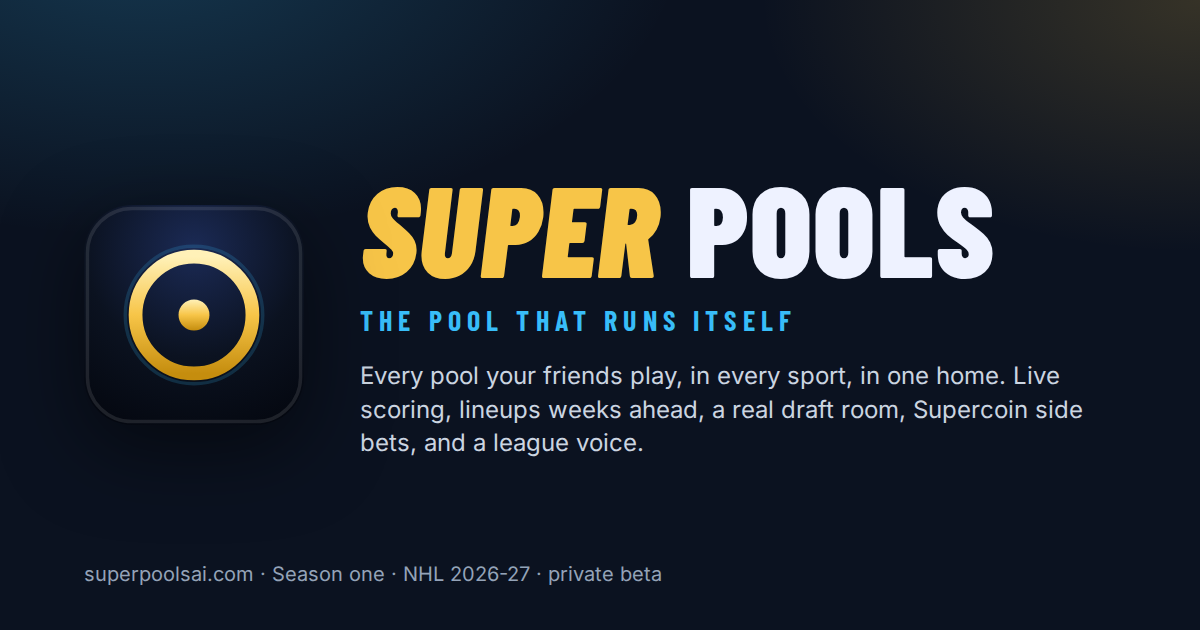
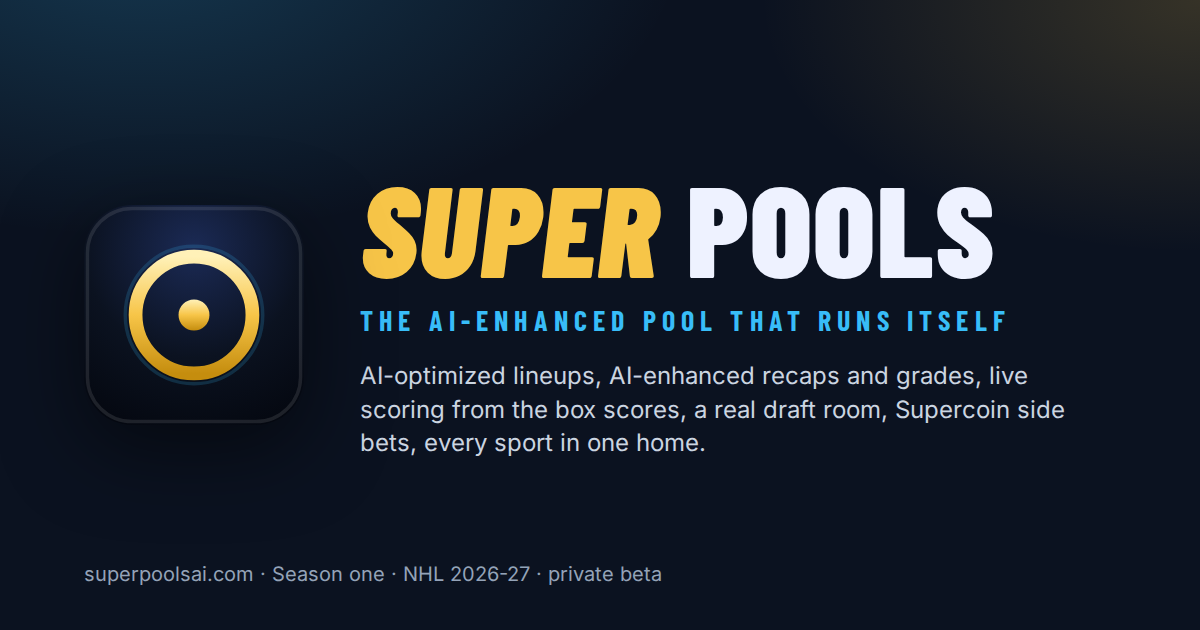
Say AI plainly and give the page real graphics
The messaging now says what the assistant does, in two words we will keep
using: AI-optimized (lineups, projections) and AI-enhanced (recaps,
grades, the voice), always grounded in the pool's own data and labelled.
The headline, the share card, the product tagline, the tiers and the
brand document follow.

The page gets drawn graphics instead of text alone: a phone mockup in the
hero with a live standings screen, the voice's bubble and a floating
AI-optimized lineup card; a faint faceoff-circle motif behind it; one-
stroke icons for the pillars, the features and the learning loop; a
glyph per sport in the roadmap grid; a gold Supercoin carrying the mark;
and a sample optimized lineup beside the voice's sample post. Everything
is inline SVG and CSS with fictional pools, so it stays crisp and private.

Claude-Session: https://claude.ai/code/session_01Hp9VkTQfXe9iCuWbtJF6dH

Changed region(s): [[0.2775, 0.573, 0.925, 0.6635], [0.3392, 0.4825, 0.8325, 0.5429], [0.3392, 0.6937, 0.5858, 0.7238]]

diff --git a/landing/index.html b/landing/index.html
@@ -3,15 +3,15 @@
 <head>
   <meta charset="utf-8" />
   <meta name="viewport" content="width=device-width, initial-scale=1" />
-  <title>Super Pools · The pool that runs itself</title>
-  <meta name="description" content="Super Pools is the home for every pool your friends play, in every sport, with a commissioner's assistant built in. Live scoring from the box scores, lineups weeks ahead, a real draft room, Supercoin side bets, and a league voice. Hockey first, built by a keeper league." />
+  <title>Super Pools · The AI-enhanced pool that runs itself</title>
+  <meta name="description" content="Super Pools is the AI-enhanced home for every pool your friends play, in every sport. AI-optimized lineups, live scoring from the box scores, a real draft room, Supercoin side bets, and a league voice that posts the recap. Hockey first, built by a keeper league." />
   <link rel="canonical" href="https://superpoolsai.com/" />
   <link rel="icon" href="./icon.svg" type="image/svg+xml" />
   <meta name="theme-color" content="#0b1220" />
   <meta property="og:type" content="website" />
   <meta property="og:url" content="https://superpoolsai.com/" />
-  <meta property="og:title" content="Super Pools · The pool that runs itself" />
-  <meta property="og:description" content="Every pool your friends play, in every sport, in one home. Live scoring, lineups weeks ahead, a real draft room, Supercoin side bets, and a league voice. Hockey first, built by a keeper league." />
+  <meta property="og:title" content="Super Pools · The AI-enhanced pool that runs itself" />
+  <meta property="og:description" content="AI-optimized lineups, AI-enhanced recaps and grades, live scoring, a real draft room, Supercoin side bets, every sport in one home. Hockey first, built by a keeper league." />
   <meta property="og:image" content="https://superpoolsai.com/og.png" />
   <meta name="twitter:card" content="summary_large_image" />
   <style>
@@ -50,6 +50,61 @@
     @media (min-width: 720px) { .nav-cta { display: inline-block; } }
     .proof { margin-top: 18px; font-size: 13px; color: var(--mute); max-width: 560px; }
 
+    /* icons: one stroke, one colour, drawn inline so they stay crisp */
+    .ico { width: 22px; height: 22px; fill: none; stroke: currentColor; stroke-width: 1.8; stroke-linecap: round; stroke-linejoin: round; color: var(--gold); flex: none; }
+    .ico.ice { color: var(--ice); }
+    .card .ico { width: 26px; height: 26px; margin-bottom: 8px; }
+
+    /* hero: words left, the product right */
+    .hero { position: relative; display: grid; gap: 28px; align-items: center; margin-top: 44px; }
+    @media (min-width: 900px) { .hero { grid-template-columns: 1.05fr .95fr; margin-top: 56px; } }
+    .hero h1 { margin-top: 10px; font-size: clamp(44px, 7.2vw, 80px); max-width: 16ch; }
+    .nb { white-space: nowrap; }
+    .rink { position: absolute; right: -120px; top: -60px; width: 520px; height: 520px; opacity: .10; pointer-events: none; display: none; }
+    @media (min-width: 900px) { .rink { display: block; } }
+    .mock { position: relative; width: 300px; margin: 8px auto 0; padding-right: 30px; }
+    .phone { width: 270px; height: 540px; border-radius: 38px; background: #05080f; border: 1px solid rgba(255,255,255,.14); box-shadow: 0 40px 80px -30px rgba(0,0,0,.9), 0 0 0 6px #0d1424 inset; padding: 14px; position: relative; }
+    .phone::before { content: ''; position: absolute; top: 14px; left: 50%; width: 90px; height: 22px; margin-left: -45px; border-radius: 0 0 14px 14px; background: #05080f; z-index: 2; }
+    .screen { background: var(--night); border-radius: 28px; height: 100%; padding: 36px 14px 14px; overflow: hidden; font-size: 12px; display: flex; flex-direction: column; gap: 10px; }
+    .bar { display: flex; justify-content: space-between; align-items: center; font-family: 'Barlow Condensed', sans-serif; font-weight: 900; font-size: 17px; letter-spacing: .02em; }
+    .bar .live { font-size: 10px; letter-spacing: .16em; color: var(--ice); font-weight: 700; }
+    .rows { background: var(--boards); border: 1px solid var(--line); border-radius: 14px; padding: 4px 10px; }
+    .row { display: grid; grid-template-columns: 18px 1fr auto auto; gap: 8px; align-items: center; padding: 8px 0; border-bottom: 1px solid var(--line); }
+    .row:last-child { border-bottom: 0; }
+    .row .rk { color: var(--mute); font-family: 'Barlow Condensed', sans-serif; font-weight: 900; font-size: 14px; }
+    .row .tm { font-weight: 600; white-space: nowrap; overflow: hidden; text-overflow: ellipsis; }
+    .row .pts { font-variant-numeric: tabular-nums; }
+    .row .d { font-size: 11px; font-variant-numeric: tabular-nums; min-width: 40px; text-align: right; }
+    .row .up { color: var(--gold); } .row .dn { color: var(--mute); }
+    .row.lead .tm, .row.lead .pts { color: var(--gold); }
+    .bubble { display: flex; gap: 8px; align-items: flex-start; background: var(--boards); border: 1px solid var(--line); border-radius: 14px; padding: 10px; font-size: 11.5px; line-height: 1.4; margin-top: auto; }
+    .bubble .avatar { width: 22px; height: 22px; font-size: 12px; }
+    .bubble b { color: var(--ink); }
+    .float { position: absolute; right: 0; bottom: 128px; width: 200px; background: var(--boards); border: 1px solid rgba(247,197,72,.45); border-radius: 16px; padding: 12px 14px; box-shadow: 0 24px 50px -20px rgba(0,0,0,.9); }
+    .chip { display: inline-flex; align-items: center; gap: 6px; font-size: 11px; letter-spacing: .08em; text-transform: uppercase; color: var(--gold); font-weight: 700; }
+    .chip .ico { width: 14px; height: 14px; }
+    .float .big { font-family: 'Barlow Condensed', sans-serif; font-weight: 900; font-size: 34px; line-height: 1; margin: 6px 0 4px; }
+    .float .big small { font-size: 13px; font-weight: 700; color: var(--mute); letter-spacing: .06em; margin-left: 4px; }
+    .float .small { font-size: 12px; color: var(--mute); line-height: 1.4; }
+
+    /* the coin */
+    .coinart { width: 150px; height: 150px; margin: 0 auto 14px; filter: drop-shadow(0 20px 30px rgba(247,197,72,.25)); }
+
+    /* AI section */
+    .ai { display: grid; gap: 14px; grid-template-columns: 1fr; }
+    @media (min-width: 900px) { .ai { grid-template-columns: 1fr 1fr; } }
+    .lineup { background: var(--boards); border: 1px solid var(--line); border-radius: 18px; padding: 16px 18px; font-size: 13px; }
+    .lineup .hd { display: flex; justify-content: space-between; align-items: center; margin-bottom: 8px; }
+    .lineup .hd b { font-family: 'Barlow Condensed', sans-serif; font-weight: 900; font-size: 20px; letter-spacing: .02em; }
+    .lineup .l { display: grid; grid-template-columns: 34px 1fr auto; gap: 10px; align-items: center; padding: 7px 0; border-bottom: 1px solid var(--line); }
+    .lineup .l:last-of-type { border-bottom: 0; }
+    .lineup .slot { font-family: 'Barlow Condensed', sans-serif; font-weight: 700; color: var(--mute); letter-spacing: .06em; }
+    .lineup .proj { font-variant-numeric: tabular-nums; color: var(--mute); }
+    .lineup .l.moved .slot, .lineup .l.moved .proj { color: var(--gold); }
+    .lineup .note { margin-top: 10px; font-size: 12px; color: var(--mute); }
+    .tier.hot { position: relative; }
+    .tier.hot::before { content: 'Most leagues'; position: absolute; top: -11px; right: 16px; background: linear-gradient(180deg, #fff3c4, var(--gold)); color: #1a1405; font-size: 10px; letter-spacing: .14em; text-transform: uppercase; font-weight: 700; padding: 4px 9px; border-radius: 999px; }
+
     section { margin-top: 64px; }
     h2 { font-size: clamp(30px, 4.6vw, 44px); margin: 8px 0 18px; }
     .grid { display: grid; gap: 14px; grid-template-columns: repeat(auto-fit, minmax(280px, 1fr)); }
@@ -86,6 +141,7 @@
     .sports { display: grid; gap: 10px; grid-template-columns: repeat(2, 1fr); }
     @media (min-width: 720px) { .sports { grid-template-columns: repeat(4, 1fr); } }
     .sport { background: var(--boards); border: 1px solid var(--line); border-radius: 14px; padding: 14px; }
+    .sport { display: flex; gap: 10px; align-items: flex-start; }
     .sport b { display: block; font-family: 'Barlow Condensed', sans-serif; font-weight: 900; font-size: 20px; letter-spacing: .02em; }
     .sport span { display: inline-block; margin-top: 6px; font-size: 11px; letter-spacing: .14em; text-transform: uppercase; color: var(--mute); }
     .sport.now { border-color: rgba(247,197,72,.45); }
@@ -116,6 +172,28 @@
   </style>
 </head>
 <body>
+  <svg width="0" height="0" style="position:absolute" aria-hidden="true">
+    <symbol id="i-spark" viewBox="0 0 24 24"><path d="M12 2l2.3 6.4L21 10.7l-6.7 2.3L12 19.4l-2.3-6.4L3 10.7l6.7-2.3z"/></symbol>
+    <symbol id="i-puck" viewBox="0 0 24 24"><ellipse cx="12" cy="8" rx="9" ry="3.5"/><path d="M3 8v6c0 1.9 4 3.5 9 3.5s9-1.6 9-3.5V8"/></symbol>
+    <symbol id="i-clock" viewBox="0 0 24 24"><circle cx="12" cy="13" r="8"/><path d="M12 9v4l3 2M9 2h6"/></symbol>
+    <symbol id="i-mic" viewBox="0 0 24 24"><rect x="9" y="3" width="6" height="11" rx="3"/><path d="M5 11a7 7 0 0 0 14 0M12 18v3M8 21h8"/></symbol>
+    <symbol id="i-dice" viewBox="0 0 24 24"><rect x="3" y="3" width="18" height="18" rx="4"/><circle cx="8" cy="8" r="1.3" fill="currentColor" stroke="none"/><circle cx="16" cy="8" r="1.3" fill="currentColor" stroke="none"/><circle cx="12" cy="12" r="1.3" fill="currentColor" stroke="none"/><circle cx="8" cy="16" r="1.3" fill="currentColor" stroke="none"/><circle cx="16" cy="16" r="1.3" fill="currentColor" stroke="none"/></symbol>
+    <symbol id="i-chart" viewBox="0 0 24 24"><path d="M3 20h18M5 16l4-5 4 3 6-8M16 6h3v3"/></symbol>
+    <symbol id="i-chat" viewBox="0 0 24 24"><path d="M4 5h16v10H9l-5 4z"/><path d="M8 10h8"/></symbol>
+    <symbol id="i-cal" viewBox="0 0 24 24"><rect x="3" y="5" width="18" height="16" rx="3"/><path d="M3 10h18M8 3v4M16 3v4"/></symbol>
+    <symbol id="i-board" viewBox="0 0 24 24"><rect x="3" y="4" width="18" height="12" rx="2"/><path d="M8 20h8M12 16v4M7 8h4M7 12h7"/></symbol>
+    <symbol id="i-shield" viewBox="0 0 24 24"><path d="M12 3l8 3v6c0 4.5-3.5 7.8-8 9-4.5-1.2-8-4.5-8-9V6z"/><path d="M9 12l2 2 4-4"/></symbol>
+    <symbol id="i-people" viewBox="0 0 24 24"><circle cx="9" cy="8" r="3.5"/><path d="M2.5 20a6.5 6.5 0 0 1 13 0M15 5a3.5 3.5 0 0 1 0 7M17 14a6.5 6.5 0 0 1 4.5 6"/></symbol>
+    <symbol id="i-vote" viewBox="0 0 24 24"><path d="M5 12l4 4L19 6M4 20h16"/></symbol>
+    <symbol id="s-hockey" viewBox="0 0 24 24"><path d="M5 3l8 12 3 1.5a1.8 1.8 0 0 1-1.6 2.5H9"/><ellipse cx="17.5" cy="18.5" rx="3" ry="1.4"/></symbol>
+    <symbol id="s-soccer" viewBox="0 0 24 24"><circle cx="12" cy="12" r="9"/><path d="M12 7.5l4 2.9-1.5 4.7h-5L8 10.4z"/><path d="M12 3v4.5M4 10.4l4 0M20 10.4l-4 0M6.5 18.6l3-3.5M17.5 18.6l-3-3.5"/></symbol>
+    <symbol id="s-basket" viewBox="0 0 24 24"><circle cx="12" cy="12" r="9"/><path d="M3 12h18M12 3v18M5.6 5.6c3 3 3 9.8 0 12.8M18.4 5.6c-3 3-3 9.8 0 12.8"/></symbol>
+    <symbol id="s-cricket" viewBox="0 0 24 24"><path d="M4 20l8-8M12 12l6.5-7.5L20 6l-7.5 6.5"/><circle cx="18" cy="18" r="2.5"/></symbol>
+    <symbol id="s-baseball" viewBox="0 0 24 24"><circle cx="12" cy="12" r="9"/><path d="M6 5c2 2.5 2 11.5 0 14M18 5c-2 2.5-2 11.5 0 14"/></symbol>
+    <symbol id="s-football" viewBox="0 0 24 24"><ellipse cx="12" cy="12" rx="10" ry="6" transform="rotate(-35 12 12)"/><path d="M9 15l6-6M10 11l1 1M12 9.5l1 1M13.5 13l1 1"/></symbol>
+    <symbol id="s-golf" viewBox="0 0 24 24"><path d="M8 21V4l9 3-9 3M4 21h10"/></symbol>
+    <symbol id="s-multi" viewBox="0 0 24 24"><circle cx="9" cy="10" r="5"/><circle cx="15" cy="10" r="5"/><circle cx="12" cy="15" r="5"/></symbol>
+  </svg>
   <main>
     <header>
       <a class="wordmark" href="https://superpoolsai.com/" aria-label="Super Pools">
@@ -128,21 +206,48 @@
       </div>
     </header>
 
-    <h1 class="display">The pool that <em>runs itself</em>.</h1>
-    <p class="lede">One home for every pool your friends play. Super Pools scores the league from the box scores every night, settles the side bets in Supercoins, sets the lineups your GMs planned weeks ago, keeps every season on the record, and gives the league a voice that posts the recap before you have finished your coffee. You run the league. It does the bookkeeping.</p>
-    <div class="cta">
-      <a class="btn btn-gold" href="#waitlist">Get on the list</a>
-      <a class="btn btn-ghost" href="#sports">Every sport, one home</a>
+    <div class="hero">
+      <svg class="rink" viewBox="0 0 520 520" aria-hidden="true"><g fill="none" stroke="#38bdf8" stroke-width="3"><circle cx="260" cy="260" r="230"/><circle cx="260" cy="260" r="12" fill="#38bdf8" stroke="none"/><path d="M200 30v18M320 30v18M200 472v18M320 472v18"/></g><path d="M0 260h520" stroke="#ef2a4f" stroke-width="3" stroke-opacity=".8"/></svg>
+      <div>
+        <div class="eyebrow">AI-optimized · AI-enhanced · built by a league</div>
+        <h1 class="display">The <span class="nb">AI-enhanced</span> pool that <em>runs itself</em>.</h1>
+        <p class="lede">One home for every pool your friends play. Super Pools scores the league from the box scores every night, optimizes the lineups your GMs leave to it, settles the side bets in Supercoins, keeps every season on the record, and gives the league a voice that posts the recap before you have finished your coffee. You run the league. It does the bookkeeping.</p>
+        <div class="cta">
+          <a class="btn btn-gold" href="#waitlist">Get on the list</a>
+          <a class="btn btn-ghost" href="#ai">See the assistant</a>
+        </div>
+        <p class="proof">Hockey first. Built by a keeper league that has drafted every fall since 2013; its 2026-27 season has run on Super Pools every night since the keeper deadline. Free to start, no ads, never real money.</p>
+      </div>
+      <div class="mock" aria-hidden="true">
+        <div class="phone">
+          <div class="screen">
+            <div class="bar"><span>NORTH POOL</span><span class="live">LIVE · 3 GAMES</span></div>
+            <div class="rows">
+              <div class="row lead"><span class="rk">1</span><span class="tm">Stars</span><span class="pts">1,284.5</span><span class="d up">+12.0</span></div>
+              <div class="row"><span class="rk">2</span><span class="tm">Bruisers</span><span class="pts">1,279.0</span><span class="d up">+7.5</span></div>
+              <div class="row"><span class="rk">3</span><span class="tm">Rink Rats</span><span class="pts">1,251.5</span><span class="d dn">+3.0</span></div>
+              <div class="row"><span class="rk">4</span><span class="tm">Habs Nots</span><span class="pts">1,236.0</span><span class="d up">+9.5</span></div>
+              <div class="row"><span class="rk">5</span><span class="tm">Prairie</span><span class="pts">1,198.5</span><span class="d dn">+1.5</span></div>
+              <div class="row"><span class="rk">6</span><span class="tm">Zambonis</span><span class="pts">1,190.0</span><span class="d dn">0.0</span></div>
+            </div>
+            <div class="bubble"><span class="avatar">G</span><div><b>Garry</b> · 10:48 pm<br>Stars take first by a goal. Bruisers left 9.5 on the bench. Recap at the horn.</div></div>
+          </div>
+        </div>
+        <div class="float">
+          <div class="chip"><svg class="ico"><use href="#i-spark"/></svg> AI-optimized lineup</div>
+          <div class="big">+6.4<small>PROJ</small></div>
+          <div class="small">Oettinger confirmed in net, moved to G1. Two bench points saved.</div>
+        </div>
+      </div>
     </div>
-    <p class="proof">Hockey first. Built by a keeper league that has drafted every fall since 2013; its 2026-27 season has run on Super Pools every night since the keeper deadline. Free to start, no ads, never real money.</p>
 
     <section class="pillars">
       <div class="eyebrow">Three things</div>
       <h2 class="display">What you get, and <em>what you stop doing</em></h2>
       <div class="grid">
-        <div class="card"><div class="n">01</div><h3>It runs itself</h3><p>Points from the box scores as the games happen. Every player locks at his own puck drop. Corrections flow in for a month. Bets, props, pools and the coin book settle themselves. Nobody keeps score by hand.</p></div>
-        <div class="card"><div class="n">02</div><h3>It talks back</h3><p>A league voice, named by your league, posts the daily recap, power rankings, trade grades and keeper reports, answers "who should I start?" in the chat, and talks trash on request.</p></div>
-        <div class="card"><div class="n">03</div><h3>Built by a league, with its leagues</h3><p>Thirteen seasons of keeper-league rules are baked in: keepers, a draft room with a clock and a TV board, trade review windows, IR rules, acquisition limits. Every pool can suggest and vote on what gets built next, and sees what shipped.</p></div>
+        <div class="card"><svg class="ico"><use href="#i-puck"/></svg><div class="n">01</div><h3>It runs itself</h3><p>Points from the box scores as the games happen. Every player locks at his own puck drop. Corrections flow in for a month. Bets, props, pools and the coin book settle themselves. Nobody keeps score by hand.</p></div>
+        <div class="card"><svg class="ico"><use href="#i-mic"/></svg><div class="n">02</div><h3>It talks back</h3><p>A league voice, named by your league, posts the daily recap, power rankings, trade grades and keeper reports, answers "who should I start?" in the chat, and talks trash on request.</p></div>
+        <div class="card"><svg class="ico"><use href="#i-people"/></svg><div class="n">03</div><h3>Built by a league, with its leagues</h3><p>Thirteen seasons of keeper-league rules are baked in: keepers, a draft room with a clock and a TV board, trade review windows, IR rules, acquisition limits. Every pool can suggest and vote on what gets built next, and sees what shipped.</p></div>
       </div>
     </section>
 
@@ -151,14 +256,14 @@
       <h2 class="display">The same friends, <em>every season of the year</em></h2>
       <p class="mute" style="margin:0 0 16px;max-width:640px">Hockey tonight. The rest arrive one at a time, each on licensed data, each with the same engine, the same chat, the same history and the same Supercoins. One login for the group, one crown for the year.</p>
       <div class="sports">
-        <div class="sport now"><b>Hockey</b><span>Now · NHL 2026-27</span></div>
-        <div class="sport"><b>Soccer</b><span>Next season</span></div>
-        <div class="sport"><b>Basketball</b><span>Next season</span></div>
-        <div class="sport"><b>Cricket</b><span>After · free to play</span></div>
-        <div class="sport"><b>Baseball</b><span>After</span></div>
-        <div class="sport"><b>Football</b><span>After</span></div>
-        <div class="sport"><b>Golf and F1</b><span>Pools</span></div>
-        <div class="sport"><b>Multi-sport pool</b><span>Draft across sports</span></div>
+        <div class="sport now"><svg class="ico"><use href="#s-hockey"/></svg><div><b>Hockey</b><span>Now · NHL 2026-27</span></div></div>
+        <div class="sport"><svg class="ico ice"><use href="#s-soccer"/></svg><div><b>Soccer</b><span>Next season</span></div></div>
+        <div class="sport"><svg class="ico ice"><use href="#s-basket"/></svg><div><b>Basketball</b><span>Next season</span></div></div>
+        <div class="sport"><svg class="ico ice"><use href="#s-cricket"/></svg><div><b>Cricket</b><span>After · free to play</span></div></div>
+        <div class="sport"><svg class="ico ice"><use href="#s-baseball"/></svg><div><b>Baseball</b><span>After</span></div></div>
+        <div class="sport"><svg class="ico ice"><use href="#s-football"/></svg><div><b>Football</b><span>After</span></div></div>
+        <div class="sport"><svg class="ico ice"><use href="#s-golf"/></svg><div><b>Golf and F1</b><span>Pools</span></div></div>
+        <div class="sport"><svg class="ico ice"><use href="#s-multi"/></svg><div><b>Multi-sport pool</b><span>Draft across sports</span></div></div>
       </div>
       <p class="mute" style="margin:16px 0 0;max-width:640px">The multi-sport pool is one roster across sports: four skaters, three strikers, two point guards, a bowler. Every sport's points on one scale, every player locked at his own game, and the pool wraps up when the season you choose ends.</p>
     </section>
@@ -172,12 +277,15 @@
           <p class="mute" style="margin:0 0 12px">Supercoins cannot be bought, sold or cashed out, which keeps them fun and keeps us out of the betting business. Cash dues stay what they have always been in a pool among friends: bookkeeping, with the balances on the record. No payments are handled.</p>
           <p class="mute" style="margin:0">Every coin that moves is a line in the ledger, visible to the pool, so nobody ever wonders where the money went.</p>
         </div>
-        <div class="ledger" aria-label="A sample Supercoin ledger">
+        <div>
+          <svg class="coinart" viewBox="0 0 120 120" aria-hidden="true"><defs><linearGradient id="cg" x1="0" y1="0" x2="0" y2="1"><stop offset="0" stop-color="#fff1b8"/><stop offset=".5" stop-color="#f7c548"/><stop offset="1" stop-color="#b8800a"/></linearGradient><radialGradient id="cf" cx="40%" cy="30%" r="80%"><stop offset="0" stop-color="#2a3a6a"/><stop offset="1" stop-color="#0b1220"/></radialGradient></defs><circle cx="60" cy="60" r="56" fill="url(#cg)"/><circle cx="60" cy="60" r="47" fill="url(#cf)"/><circle cx="60" cy="60" r="40" fill="none" stroke="#38bdf8" stroke-opacity=".25"/><circle cx="60" cy="60" r="26" fill="none" stroke="url(#cg)" stroke-width="6"/><circle cx="60" cy="60" r="7" fill="url(#cg)"/><g stroke="url(#cg)" stroke-width="4" stroke-linecap="round"><path d="M49 22v7M71 22v7M49 91v7M71 91v7"/></g></svg>
+          <div class="ledger" aria-label="A sample Supercoin ledger">
           <div><span>Season allowance · North Pool</span><span class="plus">+1,000</span></div>
           <div><span>Head-to-head vs Bruisers · Tuesday</span><span class="plus">+40</span></div>
           <div><span>Prop · MacKinnon 2+ points · settled</span><span class="minus">-25</span></div>
           <div><span>Prediction market · Cup winner · stake</span><span class="minus">-100</span></div>
           <div><span>Deadline-day top-up</span><span class="plus">+250</span></div>
+          </div>
         </div>
       </div>
     </section>
@@ -194,13 +302,26 @@
       </div>
     </section>
 
-    <section>
-      <div class="eyebrow">The league voice</div>
-      <h2 class="display">Every league gets <em>a voice</em></h2>
+    <section id="ai">
+      <div class="eyebrow">AI-optimized · AI-enhanced</div>
+      <h2 class="display">An assistant that knows <em>your league</em></h2>
+      <p class="mute" style="margin:0 0 16px;max-width:640px">Everything the assistant says is built from your pool's own box scores and record, and it is always labelled as the voice. It optimizes lineups, grades trades and drafts, writes the recap, runs the projections and answers questions in the chat. It never invents a stat and it never runs your league. You do.</p>
+      <div class="ai">
       <div class="voice">
         <div class="who"><span class="avatar">G</span><span><b>Garry</b> · league voice · Tuesday recap</span></div>
         <p>Three games, one lesson: the North Stars benched a 4-point night and still took first by a goal. The Bruisers started a scratched goalie and would like to speak to the manager. Keeper report posts Sunday. Trade deadline is in 19 days, and yes, I am counting.</p>
         <div class="tag">A sample post. Your league names its own voice and decides how often it talks.</div>
+      </div>
+      <div class="lineup" aria-label="A sample AI-optimized lineup">
+        <div class="hd"><b>TONIGHT'S LINEUP</b><span class="chip"><svg class="ico"><use href="#i-spark"/></svg> Optimized</span></div>
+        <div class="l"><span class="slot">C</span><span>Bedard · CHI vs STL</span><span class="proj">4.1</span></div>
+        <div class="l"><span class="slot">LW</span><span>Hughes · NJD vs PHI</span><span class="proj">3.8</span></div>
+        <div class="l moved"><span class="slot">RW</span><span>Marner · in for Tkachuk (out)</span><span class="proj">3.4</span></div>
+        <div class="l"><span class="slot">D</span><span>Makar · COL at DAL</span><span class="proj">3.9</span></div>
+        <div class="l moved"><span class="slot">G1</span><span>Oettinger · confirmed starter</span><span class="proj">5.2</span></div>
+        <div class="l"><span class="slot">BN</span><span>Tkachuk · day to day</span><span class="proj">0.0</span></div>
+        <div class="note">Two moves before puck drop: a scratched winger swapped out, a confirmed goalie swapped in. Every move is logged, every lock is at the player's own game time.</div>
+      </div>
       </div>
     </section>
 
@@ -208,12 +329,12 @@
       <div class="eyebrow">Everything in one place</div>
       <h2 class="display">The whole life of the league, <em>on a phone</em></h2>
       <div class="grid">
-        <div class="card"><h3>Live scoring, done right</h3><p>Points from the NHL box scores as the games happen. Every player locks at his own puck drop. Corrections flow in for a month.</p></div>
-        <div class="card"><h3>Lineups weeks ahead</h3><p>Set who starts for any day up to sixty days out, or let the auto-pilot do it. See exactly how every played day went.</p></div>
-        <div class="card"><h3>A real draft room</h3><p>Pick clock, live board, queues, a TV board for the big screen, mock drafts, and a graded report card after.</p></div>
-        <div class="card"><h3>Side bets and a book</h3><p>Head-to-heads, player props, pools and a coin sportsbook on real games, all settled from the box scores with live odds.</p></div>
-        <div class="card"><h3>Projections and forecasts</h3><p>Rest-of-season projections, thousands of simulated seasons, playoff odds, trade and free-agent finders.</p></div>
-        <div class="card"><h3>Chat, polls and history</h3><p>The league's living room: chat with reactions and polls, every transaction on the record, and a voice that remembers who said what.</p></div>
+        <div class="card"><svg class="ico"><use href="#i-puck"/></svg><h3>Live scoring, done right</h3><p>Points from the NHL box scores as the games happen. Every player locks at his own puck drop. Corrections flow in for a month.</p></div>
+        <div class="card"><svg class="ico"><use href="#i-cal"/></svg><h3>Lineups weeks ahead</h3><p>Set who starts for any day up to sixty days out, or let the auto-pilot do it. See exactly how every played day went.</p></div>
+        <div class="card"><svg class="ico"><use href="#i-board"/></svg><h3>A real draft room</h3><p>Pick clock, live board, queues, a TV board for the big screen, mock drafts, and a graded report card after.</p></div>
+        <div class="card"><svg class="ico"><use href="#i-dice"/></svg><h3>Side bets and a book</h3><p>Head-to-heads, player props, pools and a coin sportsbook on real games, all settled from the box scores with live odds.</p></div>
+        <div class="card"><svg class="ico"><use href="#i-chart"/></svg><h3>Projections and forecasts</h3><p>Rest-of-season projections, thousands of simulated seasons, playoff odds, trade and free-agent finders.</p></div>
+        <div class="card"><svg class="ico"><use href="#i-chat"/></svg><h3>Chat, polls and history</h3><p>The league's living room: chat with reactions and polls, every transaction on the record, and a voice that remembers who said what.</p></div>
       </div>
     </section>
 
@@ -223,8 +344,8 @@
       <p class="mute" style="margin:0 0 16px;max-width:640px">A free pool is a real pool. The paid tiers add what makes a league serious, and the price follows the features. No ads on any tier. Prices per pool per season, announced before leagues open.</p>
       <div class="tiers">
         <div class="tier"><h3>Free</h3><div class="for">For a group trying a pool</div><ul><li>One sport, points scoring from presets</li><li>Snake draft with a clock</li><li>Daily lineups, standings, history</li><li>Chat and polls, up to 12 teams</li><li>No assistant</li></ul><div class="price">Free</div></div>
-        <div class="tier"><h3>Plus</h3><div class="for">For an established league</div><ul><li>Custom scoring: points, categories, roto</li><li>Keepers and imports with history</li><li>Dues tracker, co-commissioners</li><li>Constitution and an audit trail</li><li>A weekly recap from the voice</li></ul><div class="price">Per pool, per season</div></div>
-        <div class="tier hot"><h3>Premium</h3><div class="for">For the fourteen-year league</div><ul><li>The full voice: daily recaps, rankings, grades, answers</li><li>Contracts, caps, prospect slots, rookie drafts</li><li>Projections and simulated seasons</li><li>The multi-sport pool and the prediction market</li><li>Side bets and the Book included</li></ul><div class="price">Per pool, per season</div></div>
+        <div class="tier"><h3>Plus</h3><div class="for">For an established league</div><ul><li>Custom scoring: points, categories, roto</li><li>Keepers and imports with history</li><li>Dues tracker, co-commissioners</li><li>Constitution and an audit trail</li><li>AI-optimized lineups and a weekly AI recap</li></ul><div class="price">Per pool, per season</div></div>
+        <div class="tier hot"><h3>Premium</h3><div class="for">For the fourteen-year league</div><ul><li>The full AI voice: daily recaps, rankings, trade and draft grades, answers</li><li>Contracts, caps, prospect slots, rookie drafts</li><li>AI-enhanced projections and simulated seasons</li><li>The multi-sport pool and the prediction market</li><li>Side bets and the Book included</li></ul><div class="price">Per pool, per season</div></div>
         <div class="tier"><h3>Side bets and the Book</h3><div class="for">Add-on for any tier</div><ul><li>Head-to-heads, props and pools</li><li>A coin sportsbook on real games</li><li>Settled from the box scores</li><li>Live odds, rulings on the record</li></ul><div class="price">Add-on</div></div>
       </div>
       <p class="mute" style="margin:14px 0 0;max-width:640px">A group with several pools gets them all for one price, in every sport, with one cross-sport standing: the Super Pool.</p>
@@ -247,9 +368,9 @@
       <div class="eyebrow">It gets better every season</div>
       <h2 class="display">Built <em>with its pools</em></h2>
       <div class="grid">
-        <div class="card"><h3>Ask for what you need</h3><p>Every GM and commissioner can suggest a feature, comment and vote. Statuses are public: new, planned, building, done, declined, each with a note. A changelog shows what shipped and who asked for it.</p></div>
-        <div class="card"><h3>Every pool teaches the next one</h3><p>How pools set their rules, which formats win, where drafts stall and what the voice gets asked all shape the presets a new pool starts from, the statistics the site shows and what the voice pays attention to.</p></div>
-        <div class="card"><h3>Your data stays yours</h3><p>Usage is recorded per pool without names, disclosed in plain English, and never sold or shared. A commissioner can switch it off. What we learn goes back into the product and nowhere else.</p></div>
+        <div class="card"><svg class="ico ice"><use href="#i-vote"/></svg><h3>Ask for what you need</h3><p>Every GM and commissioner can suggest a feature, comment and vote. Statuses are public: new, planned, building, done, declined, each with a note. A changelog shows what shipped and who asked for it.</p></div>
+        <div class="card"><svg class="ico ice"><use href="#i-spark"/></svg><h3>Every pool teaches the next one</h3><p>How pools set their rules, which formats win, where drafts stall and what the voice gets asked all shape the presets a new pool starts from, the statistics the site shows and what the voice pays attention to.</p></div>
+        <div class="card"><svg class="ico ice"><use href="#i-shield"/></svg><h3>Your data stays yours</h3><p>Usage is recorded per pool without names, disclosed in plain English, and never sold or shared. A commissioner can switch it off. What we learn goes back into the product and nowhere else.</p></div>
       </div>
     </section>
 

diff --git a/landing/og.html b/landing/og.html
@@ -19,8 +19,8 @@
   <svg class="mark" viewBox="0 0 64 64"><defs><radialGradient id="bg" cx="50%" cy="20%" r="90%"><stop offset="0" stop-color="#1b2a55"/><stop offset=".55" stop-color="#0b1220"/><stop offset="1" stop-color="#04070f"/></radialGradient><linearGradient id="gold" x1="0" y1="0" x2="0" y2="1"><stop offset="0" stop-color="#fff1b8"/><stop offset=".5" stop-color="#f7c548"/><stop offset="1" stop-color="#c58d0e"/></linearGradient></defs><rect width="64" height="64" rx="14" fill="url(#bg)"/><rect x="1" y="1" width="62" height="62" rx="13" fill="none" stroke="#fff" stroke-opacity=".1"/><circle cx="32" cy="32" r="20" fill="none" stroke="#38bdf8" stroke-opacity=".18" stroke-width="1"/><circle cx="32" cy="32" r="17" fill="none" stroke="url(#gold)" stroke-width="4"/><circle cx="32" cy="32" r="4.5" fill="url(#gold)"/><g stroke="url(#gold)" stroke-width="2.6" stroke-linecap="round"><line x1="25" y1="8" x2="25" y2="12.5"/><line x1="39" y1="8" x2="39" y2="12.5"/><line x1="25" y1="51.5" x2="25" y2="56"/><line x1="39" y1="51.5" x2="39" y2="56"/></g></svg>
   <div>
     <div class="word"><b>SUPER</b> POOLS</div>
-    <div class="tag">The pool that runs itself</div>
-    <div class="sub">Every pool your friends play, in every sport, in one home. Live scoring, lineups weeks ahead, a real draft room, Supercoin side bets, and a league voice.</div>
+    <div class="tag">The AI-enhanced pool that runs itself</div>
+    <div class="sub">AI-optimized lineups, AI-enhanced recaps and grades, live scoring from the box scores, a real draft room, Supercoin side bets, every sport in one home.</div>
   </div>
   <div class="foot">superpoolsai.com · Season one · NHL 2026-27 · private beta</div>
 </body></html>

diff --git a/src/lib/brand.ts b/src/lib/brand.ts
@@ -14,7 +14,7 @@ export interface Brand {
 }
 
 // the product behind the league (docs/BRAND.md): the name, the line under it, and where it lives
-export const PRODUCT = { name: 'Super Pools', tagline: 'The pool that runs itself', domain: 'superpoolsai.com', url: 'https://superpoolsai.com' } as const;
+export const PRODUCT = { name: 'Super Pools', tagline: 'The AI-enhanced pool that runs itself', domain: 'superpoolsai.com', url: 'https://superpoolsai.com' } as const;
 
 export const SAK_BRAND: Brand = {
   wordmark: { a: 'SAK', b: 'SUPERLEAGUE' }, tagline: 'She’s A Keeper', trophy: 'The SAK Cup', booby: 'The Peter',

diff --git a/docs/BRAND.md b/docs/BRAND.md
@@ -12,8 +12,8 @@ It starts with hockey. It scores the league from the box scores every night, set
 draft, and gives the league a voice that posts the recap, grades the trades and answers "who should I
 start?" in the chat. The commissioner runs the league. Super Pools does the bookkeeping.
 
-**Tagline:** The pool that runs itself. (In hockey copy, the hockey pool that runs itself; the word "hockey"
-drops as the sports arrive.)
+**Tagline:** The AI-enhanced pool that runs itself. (In hockey copy, the AI-enhanced hockey pool that runs
+itself; the word "hockey" drops as the sports arrive.)
 
 **Positioning statement.** For commissioners of serious hockey pools (keeper and dynasty leagues, six to
 fourteen teams, friends who have played together for years) who are tired of doing the league's bookkeeping
@@ -80,8 +80,11 @@ Hockey-league plain English. The way a good commissioner writes the Sunday email
   them St. Patrick coins). Name features by what they do ("lineups weeks ahead"), not by a brand name.
 - Avoid: "AI-powered", "revolutionize", "platform", "seamless", "unlock", "supercharge", any exclamation
   mark, any em dash, emoji in copy (icons in the UI are fine).
-- "AI" appears in the domain and in the mechanism, not in the name and not in the headline. The headline
-  sells what the assistant does for the league, not that it is an assistant.
+- AI is said plainly, as a benefit with an object: AI-optimized lineups, AI-enhanced recaps, grades and
+  projections, an AI voice. The two words we use are "AI-optimized" (for things the assistant decides,
+  lineups and projections) and "AI-enhanced" (for things it writes or grades). Every such claim is backed by
+  the pool's own data and labelled as the voice. Never "AI-powered" as decoration, never AI as the subject of
+  a sentence about the league: the league is the subject, the assistant is what it has.
 - One idea per sentence. Phone width first: a headline is at most six words, a card is two sentences.
 - Humour is dry and about hockey or the league, never about the reader.
 
@@ -114,8 +117,10 @@ per screen as the thing to look at. Ice is for lines and links. Nothing else is 
 **Type.** Barlow Condensed (900 italic for the gold word, 900 for headlines, 700 for labels) and Inter (400
 body, 600 emphasis). The landing page self-hosts both so it depends on nothing at load.
 
-**Imagery.** Screens of the product on a phone, the TV draft board, the box score. No stock photography of
-hockey players, no generated art, no mascots.
+**Imagery.** Screens of the product on a phone (drawn in HTML and CSS with fictional pools so they stay crisp
+and private), the TV draft board, the box score, the faceoff-circle motif as a faint background line, one-stroke
+icons in gold or ice, the Supercoin as a gold coin carrying the mark. No stock photography of hockey players,
+no generated art, no mascots.
 
 ## 7. Where it applies today
 
